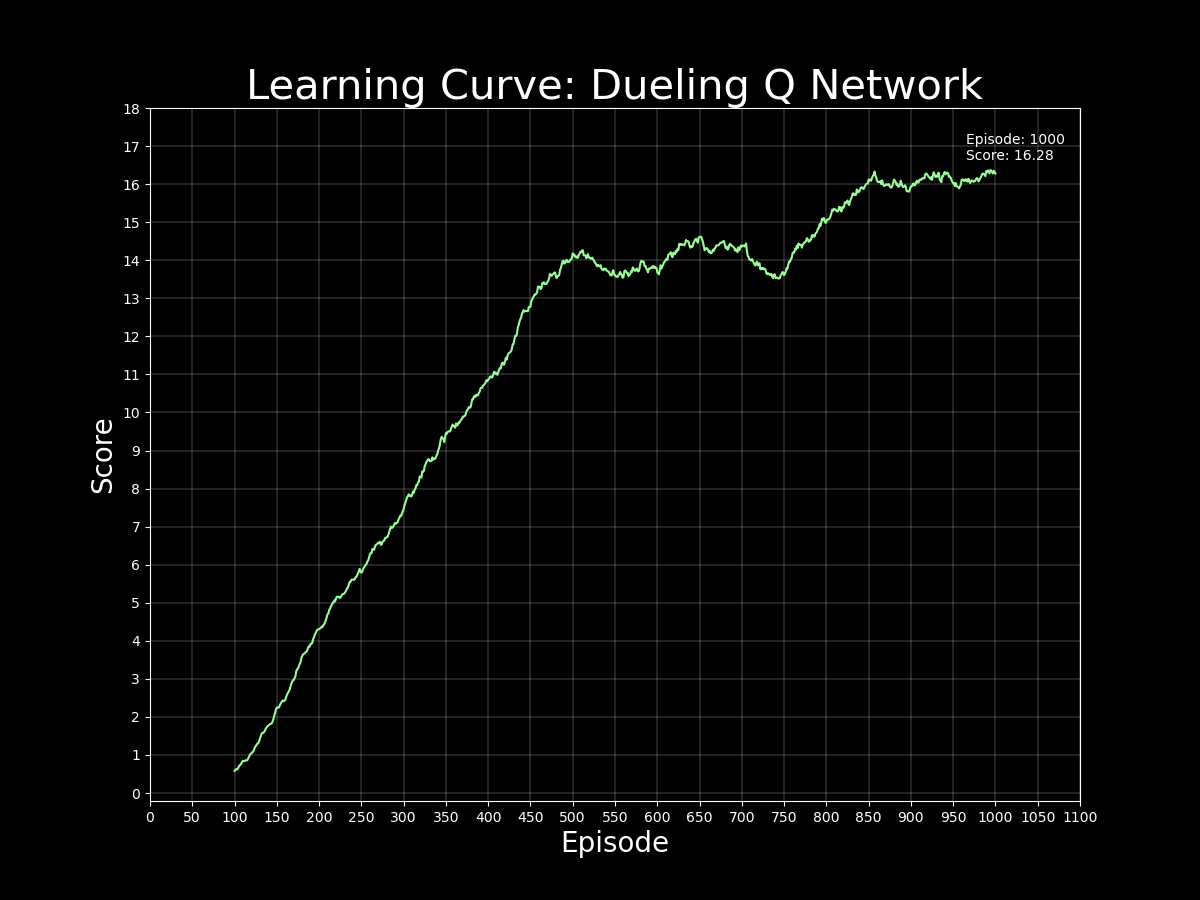
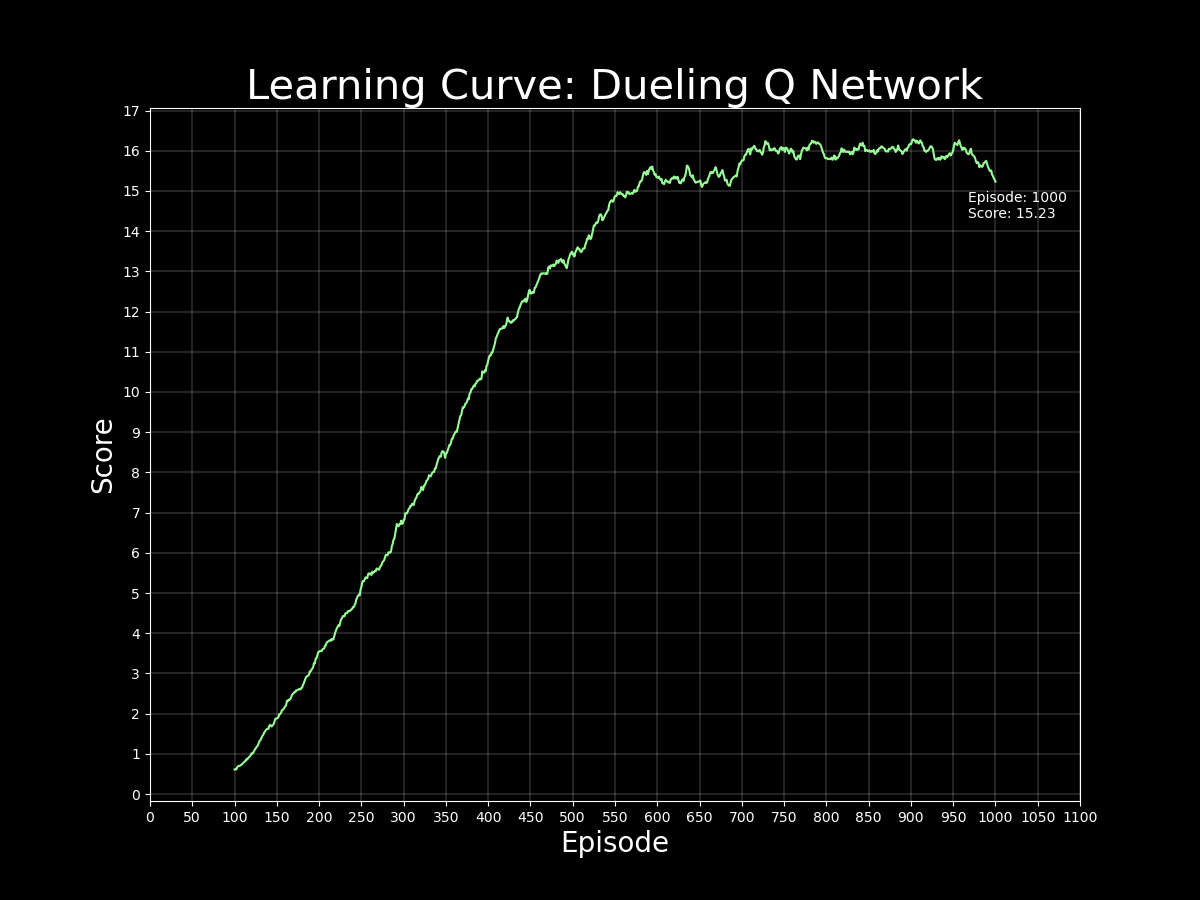
updating graphs and dueling q network eq!

Changed region(s): [[0.0925, 0.1556, 0.8942, 0.84]]

diff --git a/dqn/model.py b/dqn/model.py
@@ -85,6 +85,6 @@ class DuelingQNetwork(nn.Module):
         features = self.feature_layer(state)
         values = self.value_stream(features)
         advantages = self.advantage_stream(features)
-        q_values = values + (advantages - advantages.mean())
+        q_values = values + (advantages - advantages.max())
 
         return q_values
